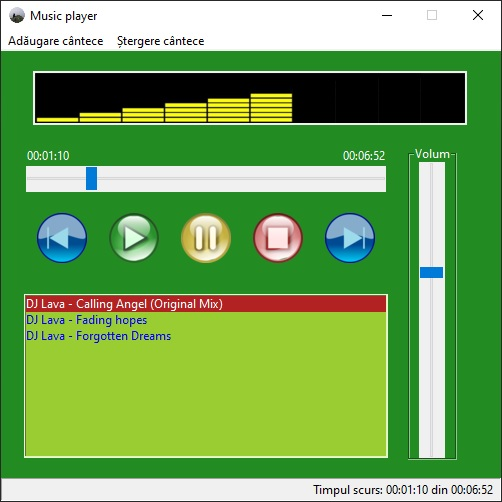
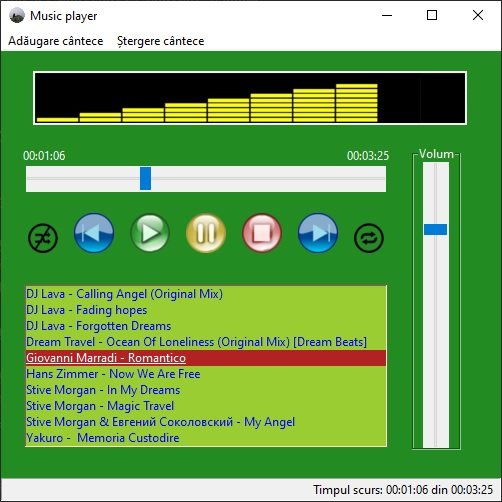
Files update

diff --git a/Music_player.py b/Music_player.py
@@ -2,10 +2,26 @@
 import tkinter as tk
 from tkinter import *
 from tkinter import filedialog, messagebox
-from pygame import mixer
 import time
 from mutagen.mp3 import MP3
 import tkinter.ttk as ttk
+import sys, os
+from random import randint
+
+# Crearea unei functii de blocare a printarii in consola (pentru a exclude mesajele de la pygame)
+def blockPrint():
+    sys.stdout = open(os.devnull, 'w')
+
+# Crearea unei functii de deblocare a printarii in consola (dupa ce s-a importat pygame)
+def enablePrint():
+    sys.stdout = sys.__stdout__
+
+# apelarea functie de blocare a printarii
+blockPrint()
+# Importul modulului mixer din biblioteca pygame
+from pygame import mixer
+#apelarea functiei de deblocare a printarii
+enablePrint()
 
 # crearea ferestrei root
 root=tk.Tk()
@@ -56,8 +72,13 @@ def play_time():
         start_bar_label.config(text=conv_lung_song)
         # se afiseaza lungimea cantecului in labelul corespunzator
         stop_bar_label.config(text=conv_lung_song)
-        # se atrece la urmatorul cantec
-        next_song()
+        # se verifica daca este ultimul cantec din lista si daca ete dezactivat regimurile de repetare si amestecare
+        if cantec_list.curselection()[0]+1==cantec_list.size() and repeat_var == False and random_var==False:
+            # se opreste muzica
+            stop_song()
+        else:
+            # se trece la urmatorul cantec
+            next_song()
     # se verifica daca cantecul nu este pe pauza
     elif paused:
         pass
@@ -209,8 +230,6 @@ def stop_song():
     music_bar.config(value=0)
     # oprirea cantecului
     mixer.music.stop()
-    # deselectarea cantecului oprit
-    cantec_list.select_clear(ACTIVE)
     #setarea variabilei de oprire in true
     global  stopped
     stopped=True
@@ -241,11 +260,13 @@ def pause_song():
         mixer.music.pause()
         # se specifica ca cantecul e pe pauza
         paused = True
-
+# se creaza o variabila globala care va specifica regimul random
+global num_random
+num_random= False
 # crearea functiei de trecere la urmatorul cantec
 def next_song():
     """
-    Functia de e trecere la urmatorul cantec
+    Functia de trecere la urmatorul cantec
     """
     # verificare daca playlist-ul nu este gol
     if cantec_list.size() == 0:
@@ -259,12 +280,21 @@ def next_song():
     stop_bar_label.config(text="")
     # Resetarea barei cu muzica
     music_bar.config(value=0)
+    # selectarea unui numar random din numarul cantecelor in playlist
+    number = randint(0, cantec_list.size() - 1)
+    # se formeaza un tuple cu un element ce corespunde numarului random
+    tuple_list=(number,)
     #se cauta daca este vre-un cantec selectat
     try:
-        #vizualizarea numarului de ordine a cantecului selectat
-        next_song =cantec_list.curselection()
-        # incrementarea numarului de ordine
-        next_song = next_song[0]+1
+        # se verifica daca este activata obtiunea random
+        if random_var:
+            # numarul urmatorului cantec va fi random
+            next_song=tuple_list
+        else:
+            #vizualizarea numarului de ordine a cantecului selectat
+            next_song =cantec_list.curselection()
+            # incrementarea numarului de ordine
+            next_song = next_song[0]+1
     # daca nu este nici un cantecul selectat
     except IndexError:
         # se afiseaza mesajul de atentionare
@@ -305,12 +335,28 @@ def previous_song():
     stop_bar_label.config(text="")
     # Resetarea barei cu muzica
     music_bar.config(value=0)
+    # selectarea unui numar random din numarul cantecelor in playlist
+    number = randint(0, cantec_list.size() - 1)
+    # se formeaza un tuple cu un element ce corespunde numarului random
+    tuple_list = (number,)
+    # se verifica daca variabila cu informatie de la checkbox este 1
+    if random_var == 1:
+        # se seteaza regimul random
+        num_random = True
+    else:
+        # se deconecteaza regimul random
+        num_random = False
     # se cauta daca este vre-un cantec selectat
     try:
-        #vizualizarea numarului de ordine a cantecului selectat
-        prev_song =cantec_list.curselection()
-        # incrementarea numarului de ordine
-        prev_song = prev_song[0]-1
+        # se verifica daca este activata obtiunea random
+        if random_var:
+            # numarul urmatorului cantec va fi random
+            prev_song = tuple_list
+        else:
+            #vizualizarea numarului de ordine a cantecului selectat
+            prev_song =cantec_list.curselection()
+            # incrementarea numarului de ordine
+            prev_song = prev_song[0]-1
     # daca nu este nici un cantecul selectat
     except IndexError:
         # se afiseaza mesajul de atentionare
@@ -380,6 +426,49 @@ def volume(x):
         volum_meter.config(image=vol9)
     else:
         volum_meter.config(image=vol10)
+# se creaza o variabila globala care va monitoriza regimul random
+global random_var
+random_var=False
+
+def random_song():
+    """
+        Functia de stabilirea a regimului random
+    """
+    global random_var
+    # se verifica daca nu este regim random
+    if not random_var:
+        # se modifica imaginea butonului random
+        buton_random.config(image=norandom_img)
+        # se include regimul random
+        random_var = True
+    # se verifica daca este regim random
+    elif random_var:
+        # se modifica imaginea butonului random
+        buton_random.config(image=random_img)
+        # se deconecteaza regimul random
+        random_var = False
+
+# se creaza o variabila globala care va monitoriza regimul repeat
+global repeat_var
+repeat_var=False
+
+def repeat_song():
+    """
+        Functia de stabilirea a regimului repeat
+    """
+    global repeat_var
+    # se verifica daca nu este regim repeat
+    if not repeat_var:
+        # se modifica imaginea butonului repeat
+        buton_repeat.config(image=norepeat_img)
+        # se include regimul repeat
+        repeat_var = True
+    # se verifica daca este regim repeat
+    elif repeat_var:
+        # se modifica imaginea butonului repeat
+        buton_repeat.config(image=repeat_img)
+        # se deconecteaza regimul repeat
+        repeat_var = False
 
 # crearea unui cadru de baza
 master_frame=Frame(root, bg="#228B22")
@@ -426,25 +515,33 @@ frame=tk.Frame(master_frame, bg="#228B22")
 frame.grid(row=3, column=0, columnspan=2, pady=20)
 
 #Definirea imaginilor pentru butoane
-previous_img = PhotoImage(file="icons/previous50.png")
-play_img = PhotoImage(file="icons/play50.png")
-pause_img = PhotoImage(file="icons/pause50.png")
-stop_img = PhotoImage(file="icons/stop50.png")
-next_img = PhotoImage(file="icons/next50.png")
+random_img= PhotoImage(file="icons/shuffle30.png")
+norandom_img= PhotoImage(file="icons/noshuffle30.png")
+previous_img = PhotoImage(file="icons/previous40.png")
+play_img = PhotoImage(file="icons/play40.png")
+pause_img = PhotoImage(file="icons/pause40.png")
+stop_img = PhotoImage(file="icons/stop40.png")
+next_img = PhotoImage(file="icons/next40.png")
+repeat_img= PhotoImage(file="icons/reapeat30.png")
+norepeat_img= PhotoImage(file="icons/noreapeat30.png")
 
 # crearea butoanelor de manipulare
+buton_random=tk.Button(frame, image=random_img, borderwidth=0, bg="#228B22", command=random_song)
 buton_anterior=tk.Button(frame, image=previous_img, borderwidth=0, bg="#228B22", command=previous_song)
 buton_play=tk.Button(frame, image=play_img, borderwidth=0, bg="#228B22", command=play_song)
 buton_pauza=tk.Button(frame, image=pause_img, borderwidth=0, bg="#228B22", command=pause_song)
 buton_stop=tk.Button(frame, image=stop_img, borderwidth=0, bg="#228B22", command=stop_song)
 buton_urmator=tk.Button(frame, image=next_img, borderwidth=0, bg="#228B22", command=next_song)
+buton_repeat=tk.Button(frame, image=repeat_img, borderwidth=0, bg="#228B22", command=repeat_song)
 
 # fixarea butoanelor in cadru
-buton_anterior.grid(row=0, column=0, padx=10)
-buton_play.grid(row=0, column=1, padx=10)
-buton_pauza.grid(row=0, column=2, padx=10)
-buton_stop.grid(row=0, column=3, padx=10)
-buton_urmator.grid(row=0, column=4, padx=10)
+buton_random.grid(row=0, column=0, padx=7, sticky=S)
+buton_anterior.grid(row=0, column=1, padx=7)
+buton_play.grid(row=0, column=2, padx=7)
+buton_pauza.grid(row=0, column=3, padx=7)
+buton_stop.grid(row=0, column=4, padx=7)
+buton_urmator.grid(row=0, column=5, padx=7)
+buton_repeat.grid(row=0, column=6, padx=7, sticky=S)
 
 # crearea meniului
 meniu=Menu(root)
@@ -475,10 +572,10 @@ status_bar.pack(fill=X, side=BOTTOM, ipady=2)
 
 # Crearea unui label in care se va afla bara de volum
 volum_frame=LabelFrame(master_frame, text='Volum', bg="#228B22", fg='white')
-volum_frame.grid(row=1, column=2, rowspan=4, sticky=N, padx=20)
+volum_frame.grid(row=1, column=2, sticky=N, rowspan=4, padx=20)
 
 #Crearea barei de volum
-volum_slider=ttk.Scale(volum_frame, from_=1, to=0, orient=VERTICAL, length=296, value=0.5, command=volume)
+volum_slider=ttk.Scale(volum_frame, from_=1, to=0, orient=VERTICAL, length=286, value=0.5, command=volume)
 volum_slider.pack(pady=0)
 
 # crearea buclei de afisare permanenta
